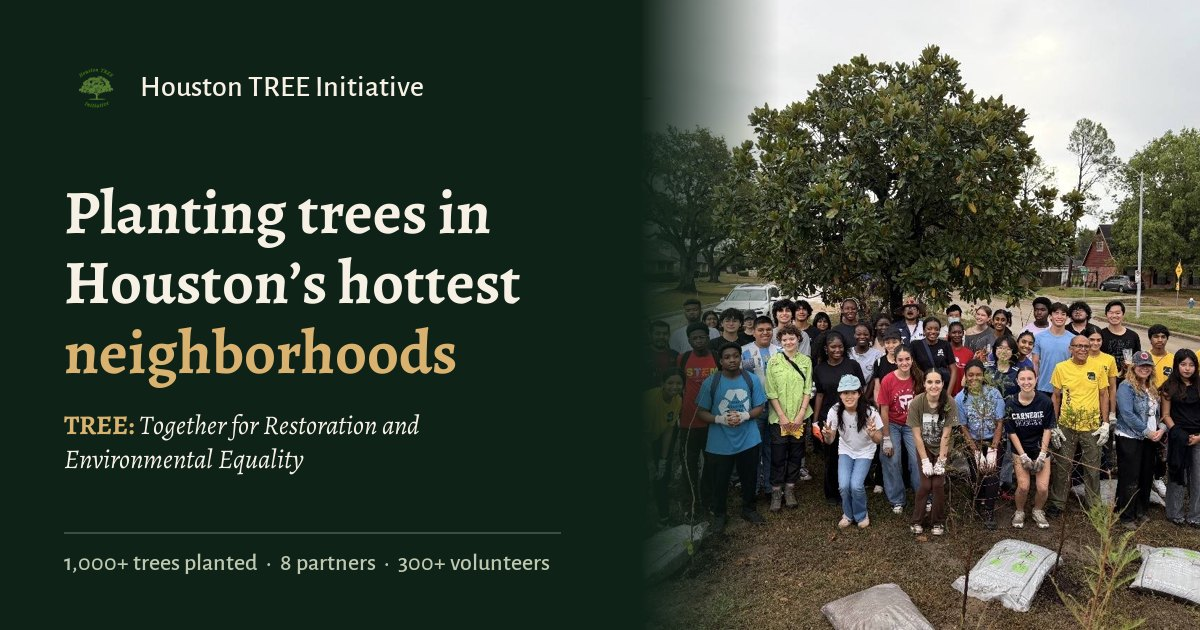
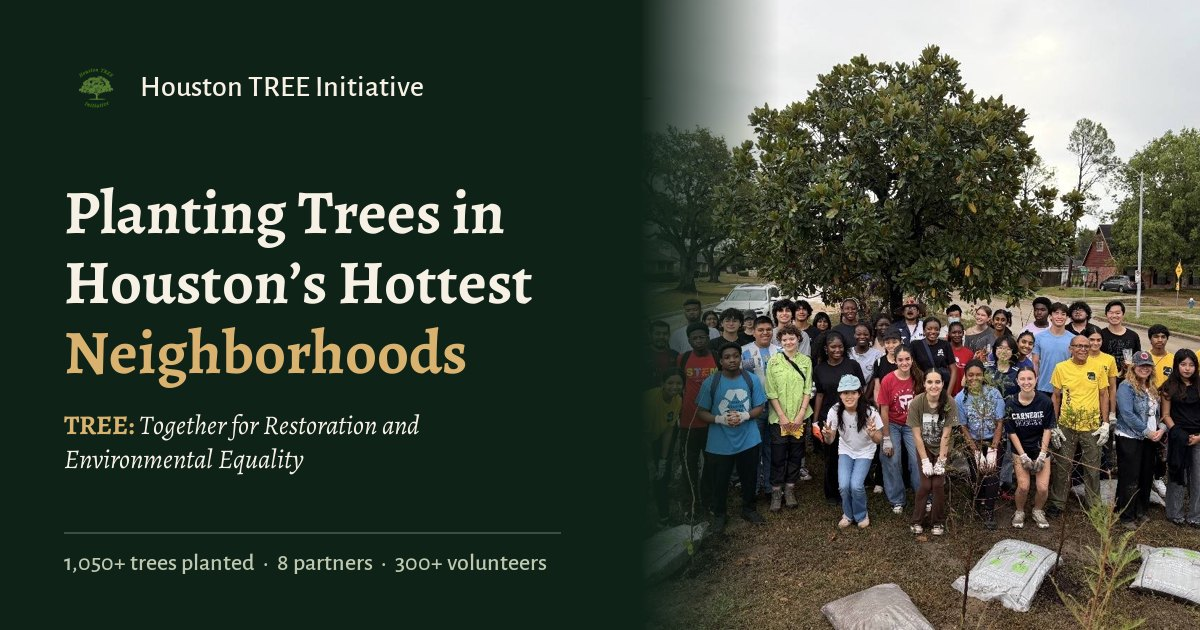
Update trees planted to 1,050+
Includes Columbia Tap Planting #4. Headline stat, at-a-glance text, 2,000-tree
progress (52.5%), meta descriptions and the link-preview image.

Changed region(s): [[0.2467, 0.3016, 0.4625, 0.4825], [0.0308, 0.5127, 0.4008, 0.6333], [0.0617, 0.8746, 0.4625, 0.9048]]

diff --git a/index.html b/index.html
@@ -4,14 +4,14 @@
   <meta charset="utf-8">
   <meta name="viewport" content="width=device-width, initial-scale=1">
   <title>Houston TREE Initiative</title>
-  <meta name="description" content="TREE (Together for Restoration and Environmental Equality) is a student-run Houston nonprofit started by Vedika Tandon. More than 1,000 trees planted with 8 partner organizations and 300+ volunteers.">
+  <meta name="description" content="TREE (Together for Restoration and Environmental Equality) is a student-run Houston nonprofit started by Vedika Tandon. More than 1,050 trees planted with 8 partner organizations and 300+ volunteers.">
   <meta name="theme-color" content="#0f2218">
 
   <!-- Link previews (iMessage, WhatsApp, Slack, social): absolute URLs required -->
   <meta property="og:type" content="website">
   <meta property="og:site_name" content="Houston TREE Initiative">
   <meta property="og:title" content="Houston TREE Initiative">
-  <meta property="og:description" content="Together for Restoration and Environmental Equality. A student-run nonprofit planting trees in Houston's hottest neighborhoods: 1,000+ trees planted so far.">
+  <meta property="og:description" content="Together for Restoration and Environmental Equality. A student-run nonprofit planting trees in Houston's hottest neighborhoods: 1,050+ trees planted so far.">
   <meta property="og:url" content="https://treeinitiative.net/">
   <meta property="og:image" content="https://treeinitiative.net/assets/og.jpg">
   <meta property="og:image:width" content="1200">
@@ -25,7 +25,7 @@
   <link rel="preconnect" href="https://fonts.googleapis.com">
   <link rel="preconnect" href="https://fonts.gstatic.com" crossorigin>
   <link href="https://fonts.googleapis.com/css2?family=Alegreya:ital,wght@0,400..800;1,400..600&family=Alegreya+Sans:ital,wght@0,400;0,500;0,700;1,400&display=swap" rel="stylesheet">
-  <link rel="stylesheet" href="styles.css?v=20261027213958">
+  <link rel="stylesheet" href="styles.css?v=20261027214209">
 </head>
 <body>
   <a class="skip" href="#main">Skip to content</a>
@@ -65,14 +65,14 @@
     <!-- ========== HERO ========== -->
     <section class="hero" id="top">
       <div class="vbg" aria-hidden="true">
-        <video class="vbg__video" autoplay muted loop playsinline preload="auto" poster="assets/video/hero.jpg?v=20261027213958">
+        <video class="vbg__video" autoplay muted loop playsinline preload="auto" poster="assets/video/hero.jpg?v=20261027214209">
           <!-- Browser takes the first it can play: phones get 960px, others 1080p; AV1 > HEVC (Safari) > H.264 -->
-          <source src="assets/video/hero-sm-av1.mp4?v=20261027213958" type='video/mp4; codecs="av01.0.05M.08"' media="(max-width: 900px)">
-          <source src="assets/video/hero-sm-hevc.mp4?v=20261027213958" type='video/mp4; codecs="hvc1.1.6.L120.90"' media="(max-width: 900px)">
-          <source src="assets/video/hero-sm.mp4?v=20261027213958" type="video/mp4" media="(max-width: 900px)">
-          <source src="assets/video/hero-av1.mp4?v=20261027213958" type='video/mp4; codecs="av01.0.08M.08"'>
-          <source src="assets/video/hero-hevc.mp4?v=20261027213958" type='video/mp4; codecs="hvc1.1.6.L120.90"'>
-          <source src="assets/video/hero-sm.mp4?v=20261027213958" type="video/mp4">
+          <source src="assets/video/hero-sm-av1.mp4?v=20261027214209" type='video/mp4; codecs="av01.0.05M.08"' media="(max-width: 900px)">
+          <source src="assets/video/hero-sm-hevc.mp4?v=20261027214209" type='video/mp4; codecs="hvc1.1.6.L120.90"' media="(max-width: 900px)">
+          <source src="assets/video/hero-sm.mp4?v=20261027214209" type="video/mp4" media="(max-width: 900px)">
+          <source src="assets/video/hero-av1.mp4?v=20261027214209" type='video/mp4; codecs="av01.0.08M.08"'>
+          <source src="assets/video/hero-hevc.mp4?v=20261027214209" type='video/mp4; codecs="hvc1.1.6.L120.90"'>
+          <source src="assets/video/hero-sm.mp4?v=20261027214209" type="video/mp4">
         </video>
         <div class="vbg__shade vbg__shade--hero"></div>
       </div>
@@ -123,7 +123,7 @@
           </article>
           <article class="glance__item" data-reveal>
             <h3>The Impact</h3>
-            <p><strong>More than 1,000 trees</strong> planted along the Columbia Tap Trail and in Alief, working with <strong>8 organizations</strong> and <strong>300+ volunteers</strong>, and recognized by National Geographic.</p>
+            <p><strong>More than 1,050 trees</strong> planted along the Columbia Tap Trail and in Alief, working with <strong>8 organizations</strong> and <strong>300+ volunteers</strong>, and recognized by National Geographic.</p>
             <a class="more" href="#impact">See the numbers <span aria-hidden="true">&rarr;</span></a>
           </article>
         </div>
@@ -134,9 +134,9 @@
     <!-- ========== WHY ========== -->
     <section class="why section--dark section--city" aria-labelledby="why-title">
       <div class="vbg" aria-hidden="true">
-        <video class="vbg__video" muted loop playsinline preload="none" poster="assets/video/hou-freeway.jpg?v=20261027213958" data-lazy-video>
-          <source src="assets/video/hou-freeway-av1.mp4?v=20261027213958" type='video/mp4; codecs="av01.0.08M.08"'>
-          <source src="assets/video/hou-freeway.mp4?v=20261027213958" type="video/mp4">
+        <video class="vbg__video" muted loop playsinline preload="none" poster="assets/video/hou-freeway.jpg?v=20261027214209" data-lazy-video>
+          <source src="assets/video/hou-freeway-av1.mp4?v=20261027214209" type='video/mp4; codecs="av01.0.08M.08"'>
+          <source src="assets/video/hou-freeway.mp4?v=20261027214209" type="video/mp4">
         </video>
         <div class="vbg__shade vbg__shade--city"></div>
       </div>
@@ -198,10 +198,10 @@
         <div class="target" data-reveal>
           <div class="target__text">
             <h3>Next Target: 2,000 Trees</h3>
-            <p><span data-count="1000">1,000</span> planted so far. Halfway there.</p>
+            <p><span data-count="1050">1,050</span> planted so far. More than halfway there.</p>
           </div>
-          <div class="target__bar" role="progressbar" aria-valuemin="0" aria-valuemax="2000" aria-valuenow="1000" aria-label="Trees planted toward the 2,000 tree target">
-            <span class="target__fill" style="--p:.5"></span>
+          <div class="target__bar" role="progressbar" aria-valuemin="0" aria-valuemax="2000" aria-valuenow="1050" aria-label="Trees planted toward the 2,000 tree target">
+            <span class="target__fill" style="--p:.525"></span>
           </div>
         </div>
       </div>
@@ -210,8 +210,8 @@
     <!-- ========== JOIN ========== -->
     <section class="join section--dark" id="join" aria-labelledby="join-title">
       <div class="vbg" aria-hidden="true">
-        <video class="vbg__video" muted loop playsinline preload="none" poster="assets/video/pines.jpg?v=20261027213958" data-lazy-video>
-          <source src="assets/video/pines.mp4?v=20261027213958" type="video/mp4">
+        <video class="vbg__video" muted loop playsinline preload="none" poster="assets/video/pines.jpg?v=20261027214209" data-lazy-video>
+          <source src="assets/video/pines.mp4?v=20261027214209" type="video/mp4">
         </video>
         <div class="vbg__shade vbg__shade--heavy"></div>
       </div>
@@ -278,9 +278,9 @@
     <!-- ========== IMPACT ========== -->
     <section class="impact section--dark" id="impact" aria-labelledby="impact-title">
       <div class="vbg" aria-hidden="true">
-        <video class="vbg__video" muted loop playsinline preload="none" poster="assets/video/canopy.jpg?v=20261027213958" data-lazy-video>
-          <source src="assets/video/canopy-av1.mp4?v=20261027213958" type='video/mp4; codecs="av01.0.08M.08"'>
-          <source src="assets/video/canopy.mp4?v=20261027213958" type="video/mp4">
+        <video class="vbg__video" muted loop playsinline preload="none" poster="assets/video/canopy.jpg?v=20261027214209" data-lazy-video>
+          <source src="assets/video/canopy-av1.mp4?v=20261027214209" type='video/mp4; codecs="av01.0.08M.08"'>
+          <source src="assets/video/canopy.mp4?v=20261027214209" type="video/mp4">
         </video>
         <div class="vbg__shade"></div>
       </div>
@@ -290,7 +290,7 @@
         <dl class="stats" data-reveal>
           <div class="stat">
             <dt>Trees Planted</dt>
-            <dd class="stat__value"><span data-count="1000">1,000</span>+</dd>
+            <dd class="stat__value"><span data-count="1050">1,050</span>+</dd>
             <dd class="stat__note">Native trees in Third Ward and Alief, planted by TREE or alongside partners.</dd>
           </div>
           <div class="stat">
@@ -338,9 +338,9 @@
             <p>The Slingshot Challenge is an annual competition run by the National Geographic Society. It asks young people around the world to share a one-minute video about an environmental problem in their community and what they are doing to solve it.</p>
             <p>TREE&rsquo;s video presented the initiative&rsquo;s work and what it had accomplished so far. Out of 2,300 entries, it was named one of the top 50 and received an honorable mention. The team hopes the video helps people understand TREE&rsquo;s goals and inspires them to fight for tree equity wherever they live.</p>
             <figure class="slingshot">
-              <video controls playsinline preload="none" poster="assets/video/slingshot.jpg?v=20261027213958" aria-label="TREE Initiative's National Geographic Slingshot Challenge video">
-                <source src="assets/video/slingshot.mp4?v=20261027213958" type="video/mp4">
-                Your browser can't play this video. <a href="assets/video/slingshot.mp4?v=20261027213958">Download it here.</a>
+              <video controls playsinline preload="none" poster="assets/video/slingshot.jpg?v=20261027214209" aria-label="TREE Initiative's National Geographic Slingshot Challenge video">
+                <source src="assets/video/slingshot.mp4?v=20261027214209" type="video/mp4">
+                Your browser can't play this video. <a href="assets/video/slingshot.mp4?v=20261027214209">Download it here.</a>
               </video>
               <figcaption>Watch TREE&rsquo;s Slingshot Challenge video (1 min).</figcaption>
             </figure>
@@ -512,8 +512,8 @@
     <!-- ========== PARTNERS ========== -->
     <section class="partners section--dark section--city" id="partners" aria-labelledby="partners-title">
       <div class="vbg" aria-hidden="true">
-        <video class="vbg__video" muted loop playsinline preload="none" poster="assets/video/hou-night.jpg?v=20261027213958" data-lazy-video>
-          <source src="assets/video/hou-night.mp4?v=20261027213958" type="video/mp4">
+        <video class="vbg__video" muted loop playsinline preload="none" poster="assets/video/hou-night.jpg?v=20261027214209" data-lazy-video>
+          <source src="assets/video/hou-night.mp4?v=20261027214209" type="video/mp4">
         </video>
         <div class="vbg__shade vbg__shade--city"></div>
       </div>
@@ -546,9 +546,9 @@
     <!-- ========== BACKGROUND ========== -->
     <section class="background section--dark section--city" id="background" aria-labelledby="background-title">
       <div class="vbg" aria-hidden="true">
-        <video class="vbg__video" muted loop playsinline preload="none" poster="assets/video/hou-waterwall.jpg?v=20261027213958" data-lazy-video>
-          <source src="assets/video/hou-waterwall-av1.mp4?v=20261027213958" type='video/mp4; codecs="av01.0.08M.08"'>
-          <source src="assets/video/hou-waterwall.mp4?v=20261027213958" type="video/mp4">
+        <video class="vbg__video" muted loop playsinline preload="none" poster="assets/video/hou-waterwall.jpg?v=20261027214209" data-lazy-video>
+          <source src="assets/video/hou-waterwall-av1.mp4?v=20261027214209" type='video/mp4; codecs="av01.0.08M.08"'>
+          <source src="assets/video/hou-waterwall.mp4?v=20261027214209" type="video/mp4">
         </video>
         <div class="vbg__shade vbg__shade--city"></div>
       </div>
@@ -674,7 +674,7 @@
   <script src="https://cdnjs.cloudflare.com/ajax/libs/gsap/3.12.5/gsap.min.js" defer></script>
   <script src="https://cdnjs.cloudflare.com/ajax/libs/gsap/3.12.5/ScrollTrigger.min.js" defer></script>
   <script src="https://unpkg.com/lenis@1.1.13/dist/lenis.min.js" defer></script>
-  <script src="config.js?v=20261027213958" defer></script>
-  <script src="main.js?v=20261027213958" defer></script>
+  <script src="config.js?v=20261027214209" defer></script>
+  <script src="main.js?v=20261027214209" defer></script>
 </body>
 </html>
